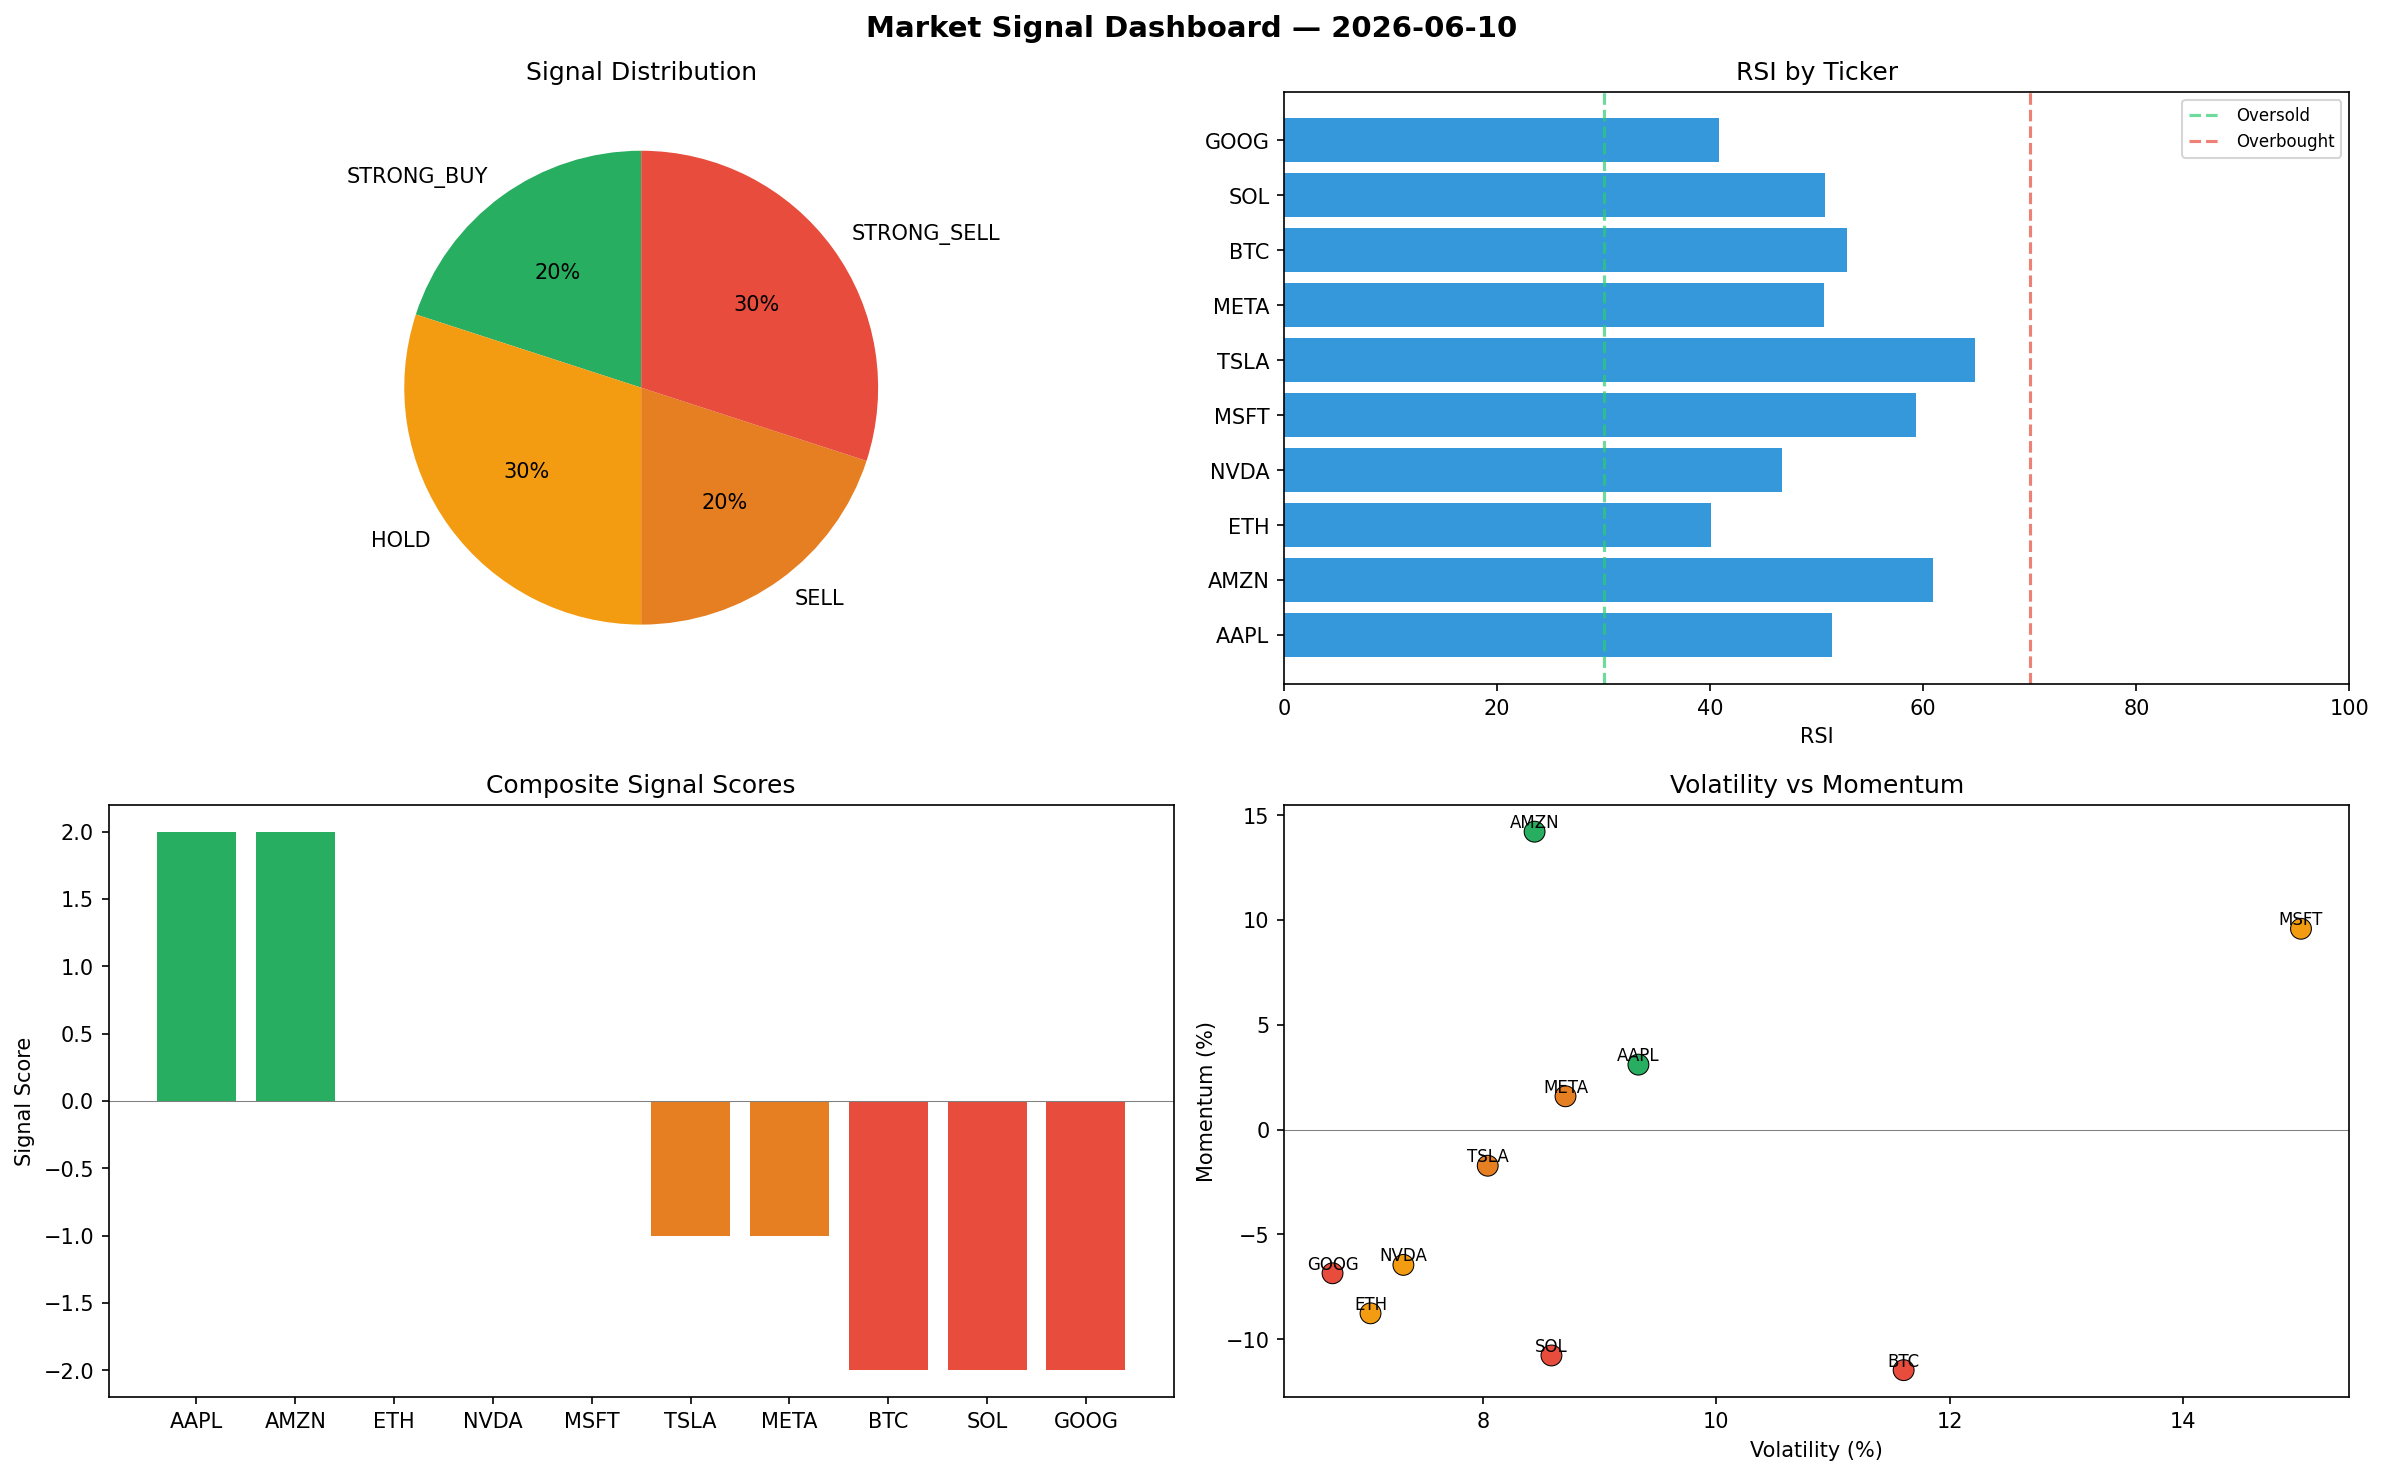
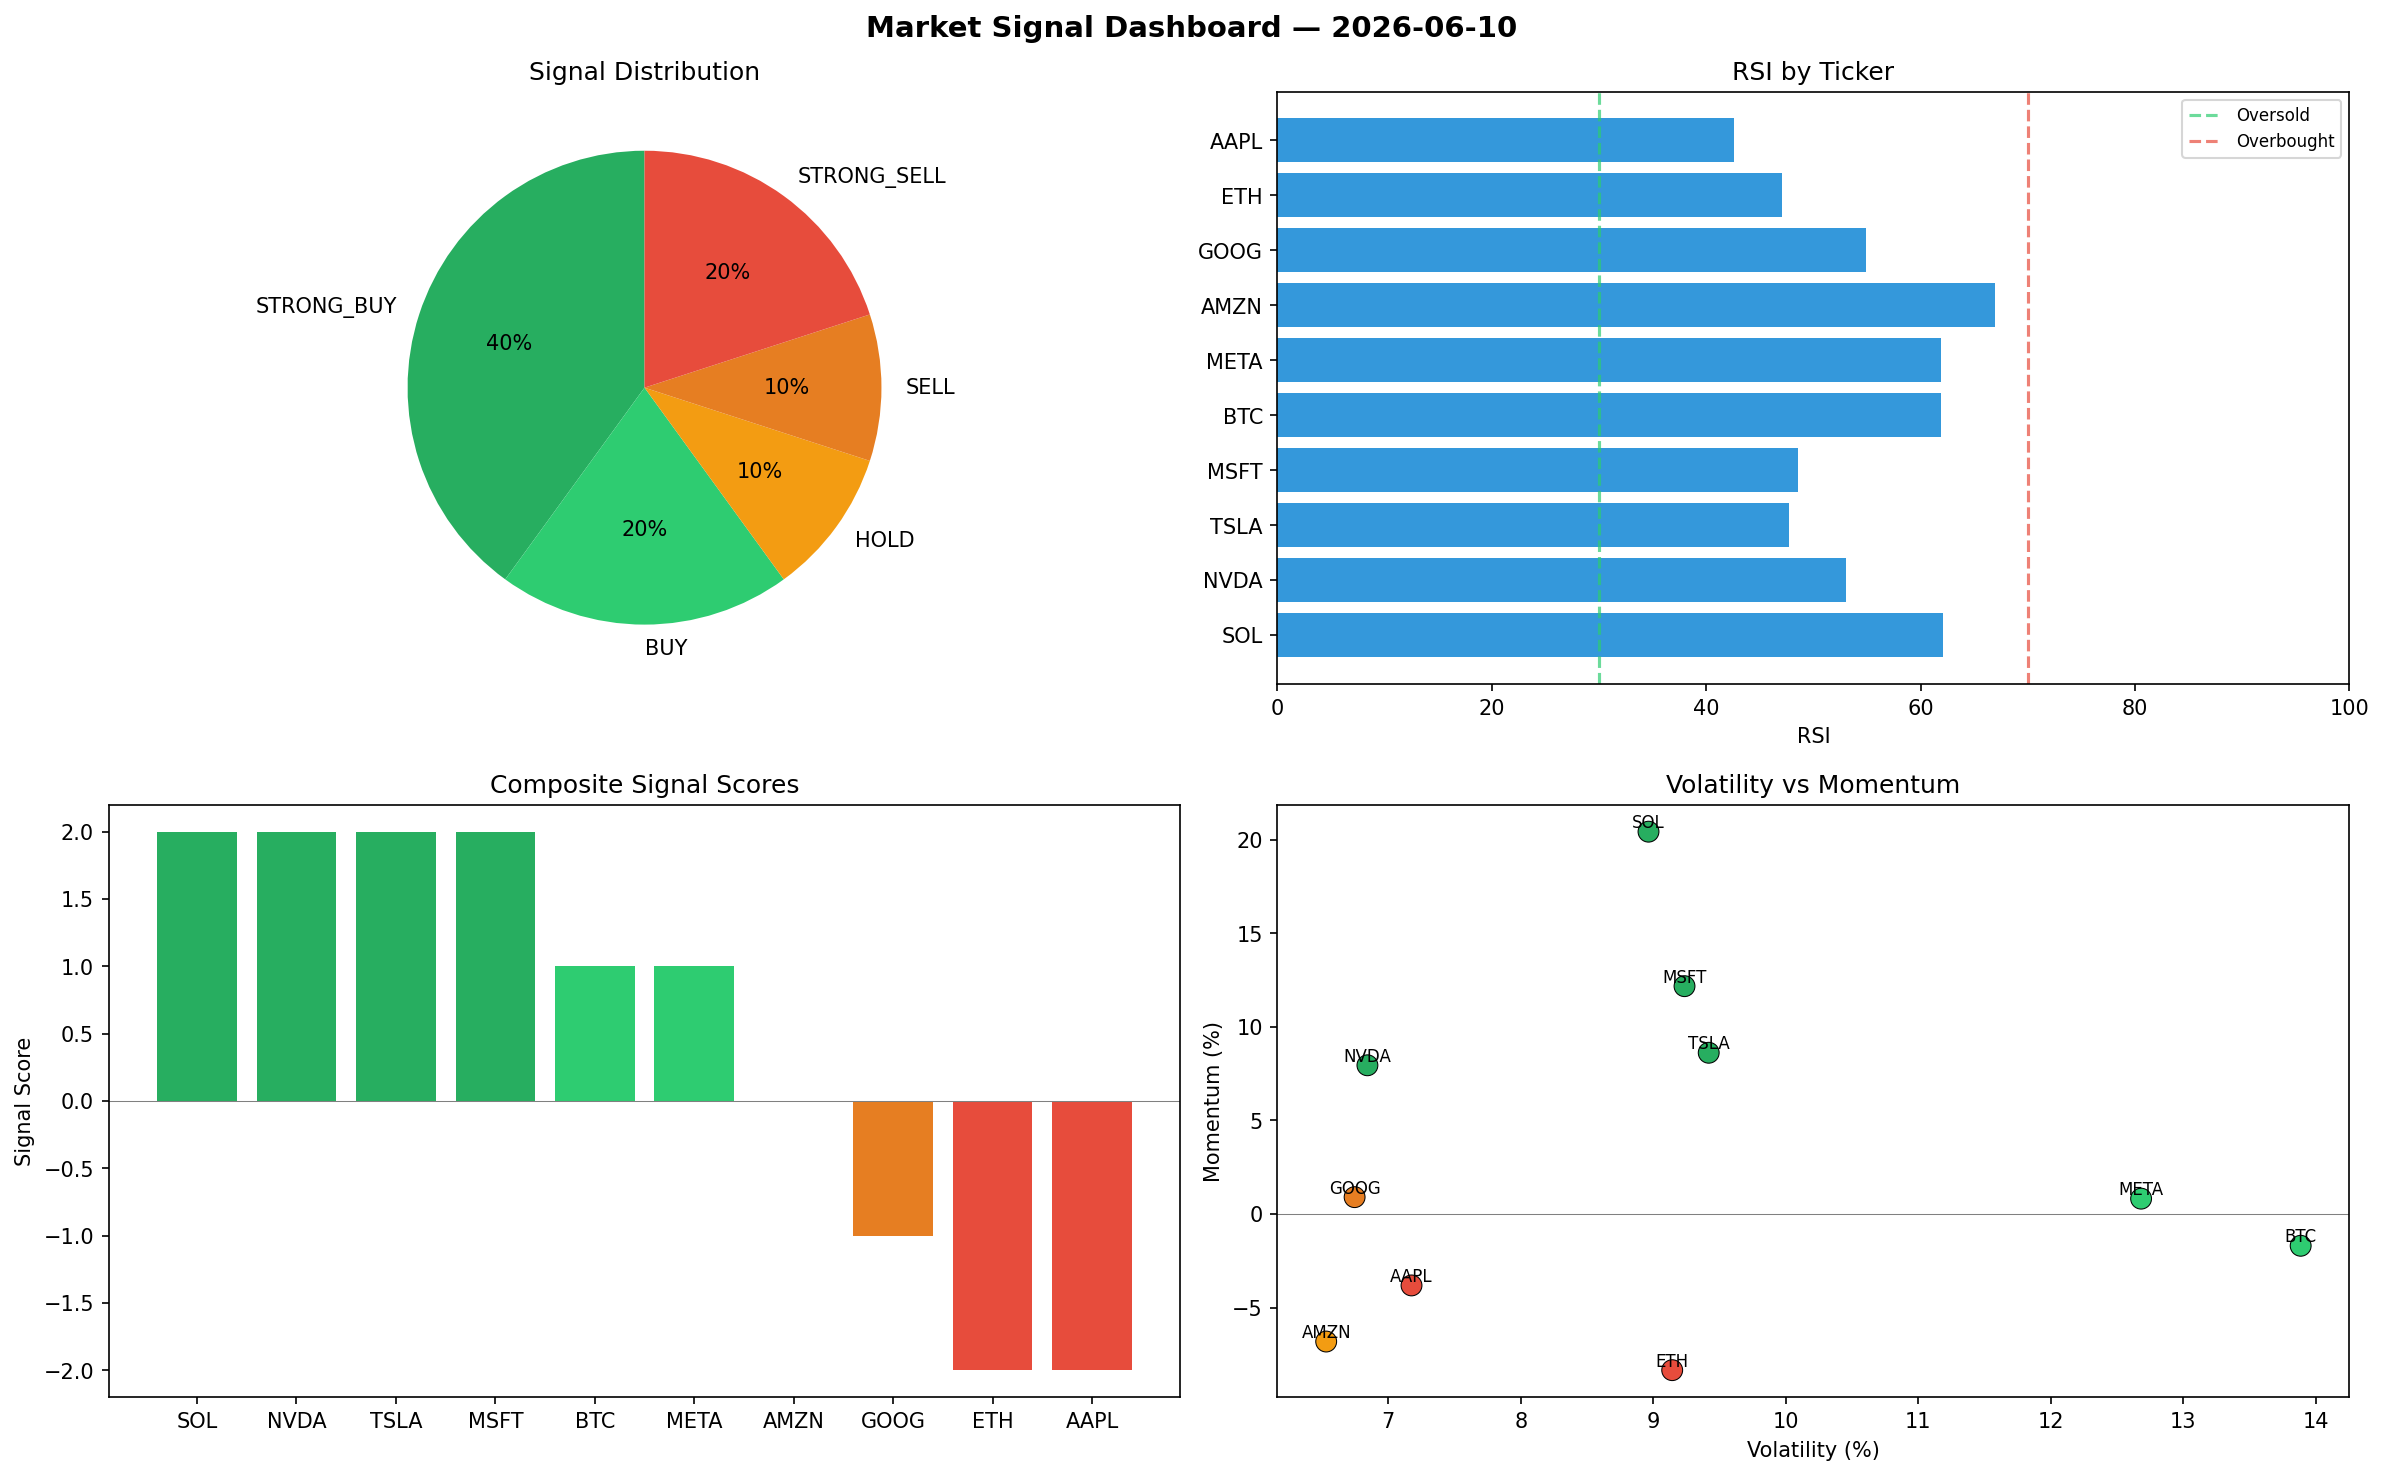
automated-bots: market signals 2026-06-10T17:41

diff --git a/logs/2026-06-10.md b/logs/2026-06-10.md
@@ -1,6 +1,6 @@
 # Market Signal Report — 2026-06-10
 
-**Run ID:** `48ae9ede21` | **Buy:** 2 | **Sell:** 5 | **Hold:** 3
+**Run ID:** `8701d4bfee` | **Buy:** 6 | **Sell:** 3 | **Hold:** 1
 
 ![Dashboard](2026-06-10_dashboard.png)
 
@@ -8,28 +8,28 @@
 
 | Ticker | Price | Signal | Score | RSI | Momentum | Confidence |
 |--------|-------|--------|-------|-----|----------|------------|
-| AAPL | $667.97 | **STRONG_BUY** | 2 | 51.39 | 0.031 | 0.5 |
-| AMZN | $4855.82 | **STRONG_BUY** | 2 | 60.94 | 0.1421 | 0.5 |
-| ETH | $4820.8 | **HOLD** | 0 | 40.04 | -0.0876 | 0.0 |
-| NVDA | $2991.29 | **HOLD** | 0 | 46.75 | -0.0645 | 0.0 |
-| MSFT | $4923.18 | **HOLD** | 0 | 59.32 | 0.0958 | 0.0 |
-| TSLA | $2598.7 | **SELL** | -1 | 64.85 | -0.0172 | 0.25 |
-| META | $2817.89 | **SELL** | -1 | 50.68 | 0.0159 | 0.25 |
-| BTC | $3351.4 | **STRONG_SELL** | -2 | 52.86 | -0.1147 | 0.5 |
-| SOL | $3137.18 | **STRONG_SELL** | -2 | 50.8 | -0.1077 | 0.5 |
-| GOOG | $3947.75 | **STRONG_SELL** | -2 | 40.82 | -0.0685 | 0.5 |
+| SOL | $4350.96 | **STRONG_BUY** | 2 | 62.1 | 0.2044 | 0.5 |
+| NVDA | $4247.97 | **STRONG_BUY** | 2 | 53.02 | 0.0795 | 0.5 |
+| TSLA | $4397.03 | **STRONG_BUY** | 2 | 47.76 | 0.0862 | 0.5 |
+| MSFT | $3220.34 | **STRONG_BUY** | 2 | 48.52 | 0.1218 | 0.5 |
+| BTC | $1292.05 | **BUY** | 1 | 61.9 | -0.017 | 0.25 |
+| META | $1508.99 | **BUY** | 1 | 61.93 | 0.0082 | 0.25 |
+| AMZN | $4452.66 | **HOLD** | 0 | 66.9 | -0.0682 | 0.0 |
+| GOOG | $466.89 | **SELL** | -1 | 54.88 | 0.009 | 0.25 |
+| ETH | $2753.98 | **STRONG_SELL** | -2 | 47.06 | -0.0835 | 0.5 |
+| AAPL | $1691.29 | **STRONG_SELL** | -2 | 42.61 | -0.0382 | 0.5 |
 
 ## Delta vs Yesterday
 
 | Ticker | Today | Yesterday | Price Change | Signal Changed |
 |--------|-------|-----------|-------------|----------------|
-| AAPL | STRONG_BUY | BUY | 📉 -82.43% | ⚠ YES |
-| AMZN | STRONG_BUY | BUY | 📈 181.35% | ⚠ YES |
-| ETH | HOLD | STRONG_SELL | 📈 1643.7% | ⚠ YES |
-| NVDA | HOLD | STRONG_SELL | 📈 20056.94% | ⚠ YES |
-| MSFT | HOLD | STRONG_BUY | 📈 29.05% | ⚠ YES |
-| TSLA | SELL | HOLD | 📈 303.14% | ⚠ YES |
-| META | SELL | BUY | 📈 36.69% | ⚠ YES |
-| BTC | STRONG_SELL | STRONG_BUY | 📉 -27.19% | ⚠ YES |
-| SOL | STRONG_SELL | STRONG_SELL | 📈 12.52% | — |
-| GOOG | STRONG_SELL | STRONG_SELL | 📉 -7.65% | — |
+| SOL | STRONG_BUY | STRONG_SELL | 📈 56.06% | ⚠ YES |
+| NVDA | STRONG_BUY | STRONG_SELL | 📈 28525.13% | ⚠ YES |
+| TSLA | STRONG_BUY | HOLD | 📈 582.11% | ⚠ YES |
+| MSFT | STRONG_BUY | STRONG_BUY | 📉 -15.58% | — |
+| BTC | BUY | STRONG_BUY | 📉 -71.93% | ⚠ YES |
+| META | BUY | BUY | 📉 -26.8% | — |
+| AMZN | HOLD | BUY | 📈 157.99% | ⚠ YES |
+| GOOG | SELL | STRONG_SELL | 📉 -89.08% | ⚠ YES |
+| ETH | STRONG_SELL | STRONG_SELL | 📈 896.12% | — |
+| AAPL | STRONG_SELL | BUY | 📉 -55.52% | ⚠ YES |
